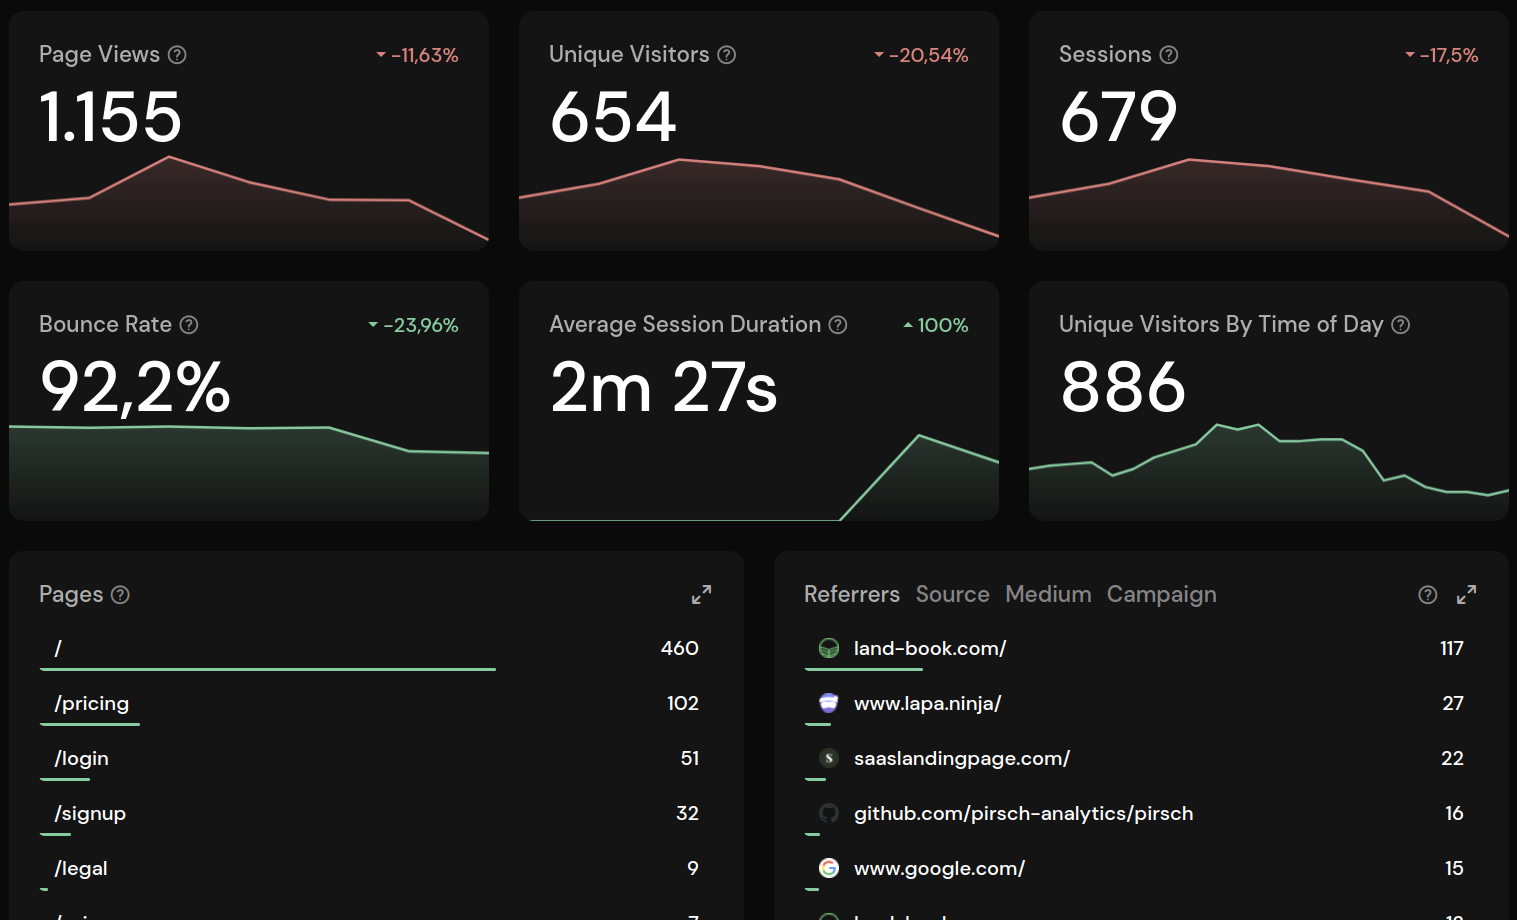
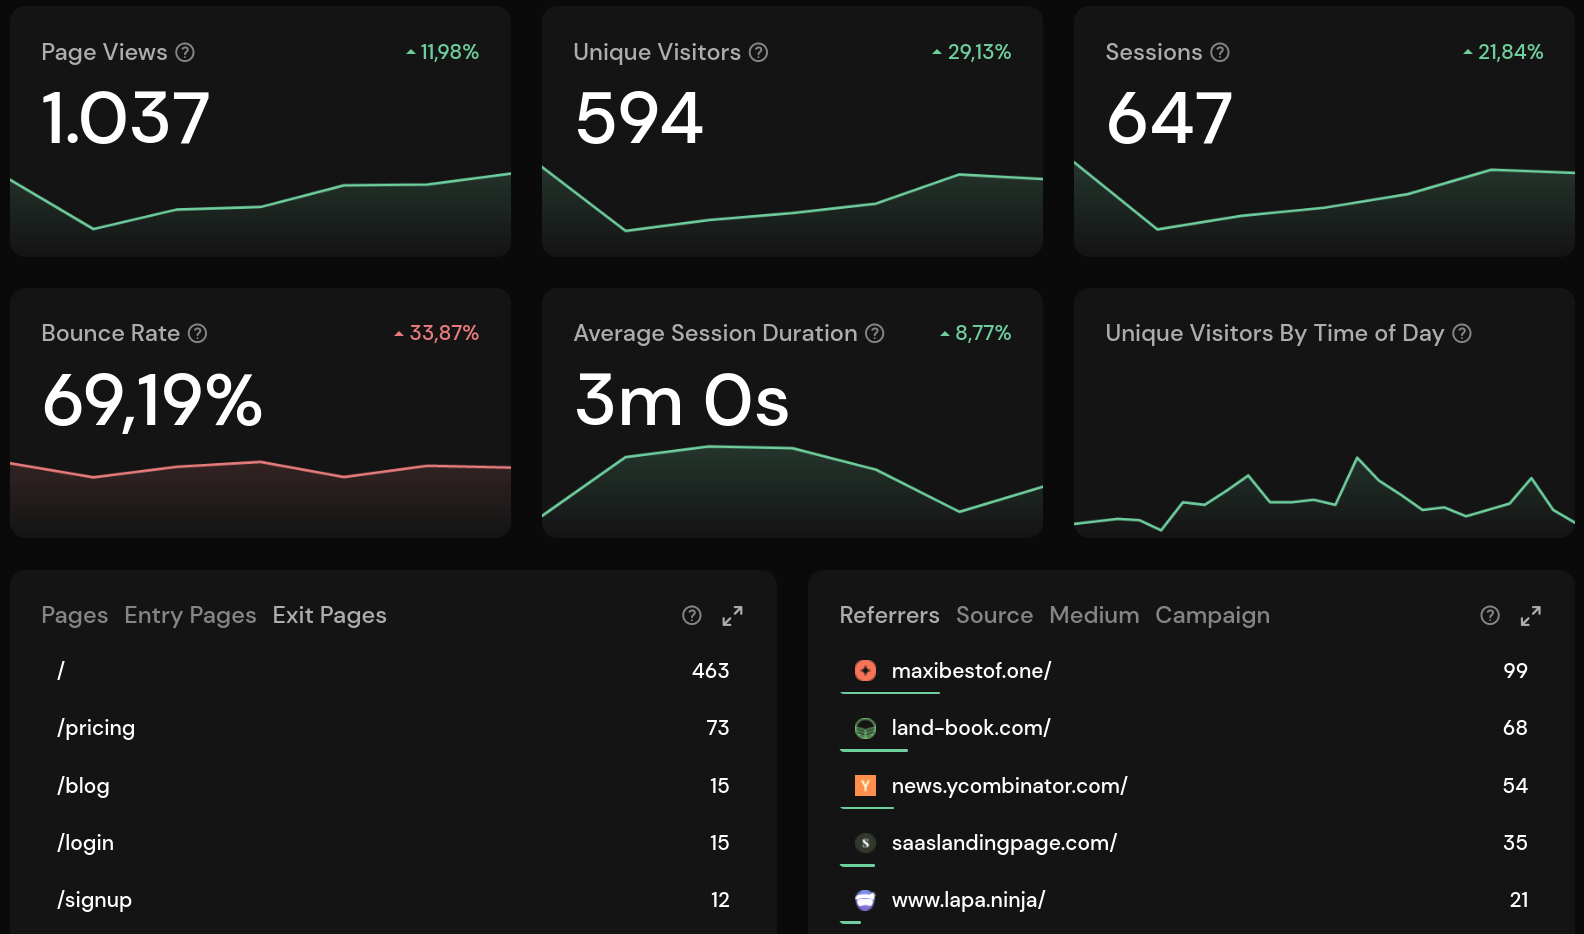
Updated dashboard overview and screenshots.

diff --git a/content/dashboard/overview.md b/content/dashboard/overview.md
@@ -1,6 +1,6 @@
 ---
 title: "Overview"
-date: 2021-03-28
+date: 2021-06-03
 draft: false
 weight: 1
 description: "Get an overview over the dashboard."
@@ -46,9 +46,13 @@ The next three panels show the bounce rate, average session duration, and the un
 
 ### Pages, Referrers, Countries, ...
 
-The following panels show various statistics regarding unique visitors. *Pages* for example shows how many visitors have visited a single page. Referrers list all websites a visitor came from.
+The following panels show various statistics regarding unique visitors.
 
-A panel will only display the top 10 results, but you can enlarge it to see all results. The *Screen Sizes* panel is only available if you have embedded the [JavaScript snippet]({{< ref "get-started/frontend-integration.md" >}}). The [backend integration]({{< ref "get-started/backend-integration.md" >}}) does not collect this metric.
+*Pages* shows how many visitors have visited a single page. Entry and exit pages are the pages visitors use to enter or leave your website. They can be helpful to identify issues with specific sites. When a lot of visitors leave on your checkout page, you might have an issue there.
+
+*Referrers* list all websites a visitor came from. *[UTM parameters]({{< ref "dashboard/utm.md" >}})* help you to track marketing campaigns or gain more detailed insight into referrering websites.
+
+A panel will only display the top 10 results, but you can enlarge it to see all results and more details. The *Screen Sizes* panel is only available if you have embedded the [JavaScript snippet]({{< ref "get-started/frontend-integration.md" >}}). The [backend integration]({{< ref "get-started/backend-integration.md" >}}) does not collect this metric.
 
 ![Panels](/dashboard/panels.png)
 

diff --git a/content/privacy.md b/content/privacy.md
@@ -1,8 +1,8 @@
 ---
 title: "Privacy"
-date: 2021-05-13
+date: 2021-06-03
 draft: false
-weight: 5
+weight: 6
 description: "Learn how Pirsch respects the privacy of your visitors."
 ---
 

diff --git a/content/changelog.md b/content/changelog.md
@@ -2,7 +2,7 @@
 title: "Changelog"
 date: 2021-05-29
 draft: false
-weight: 6
+weight: 7
 description: "Overview of all changes."
 ---
 
